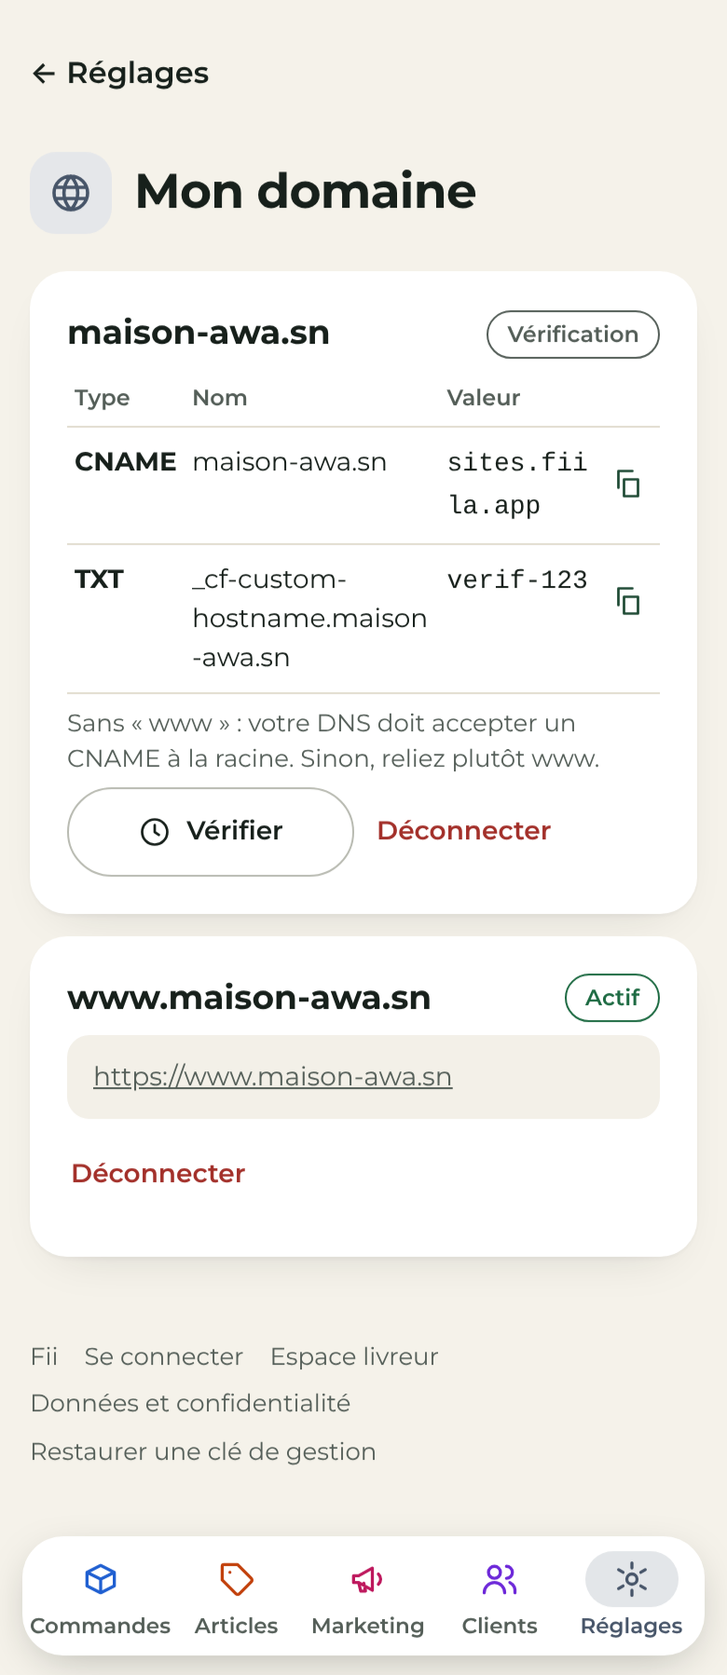
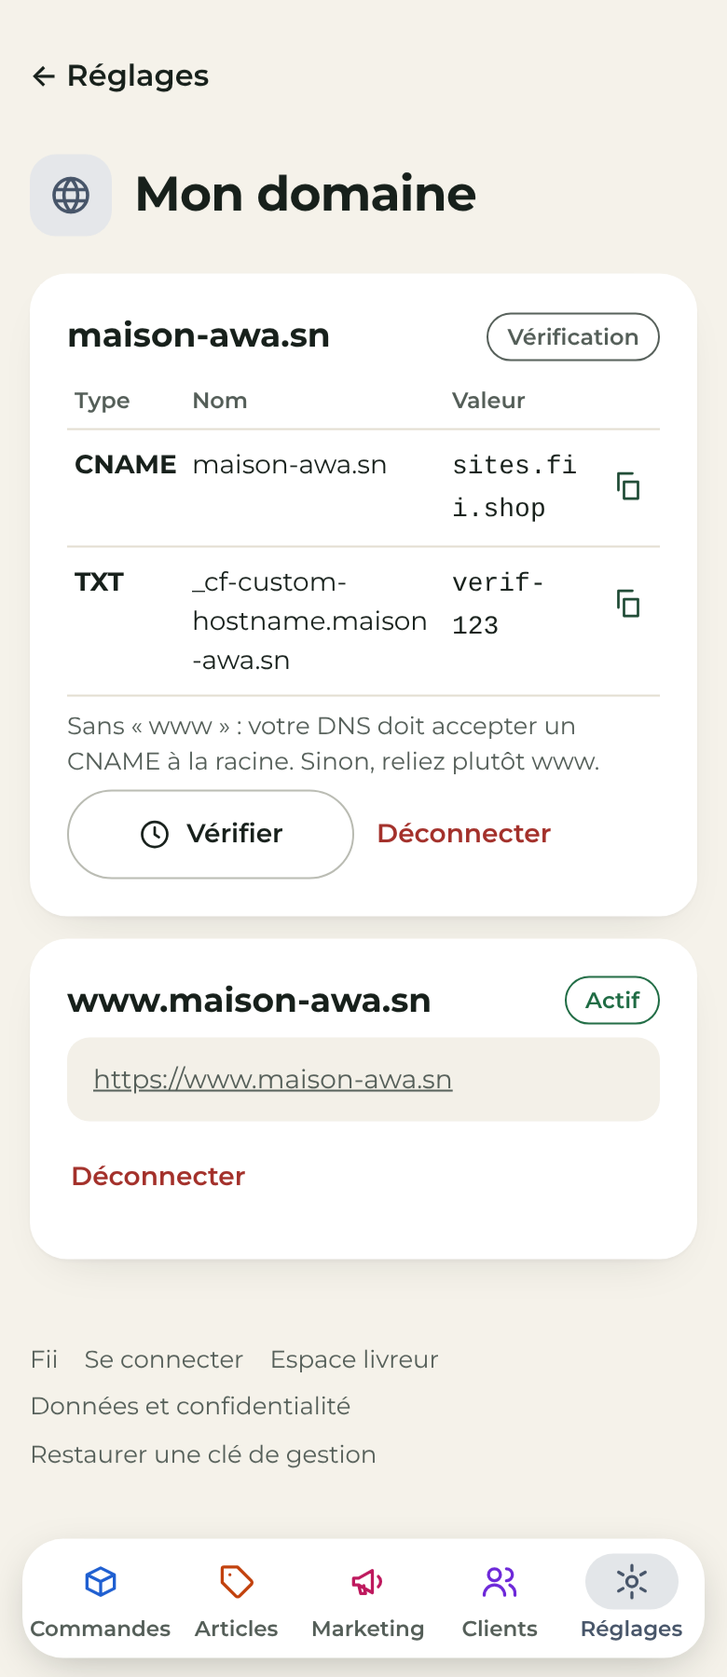
Domaines : fii.app (application) et fii.shop (sites des boutiques)
- Décision du fondateur (24/10 16:51) : remplace fiila.app ; fii.com pris depuis 1998
- <lien>.fii.shop pour chaque boutique en ligne (base + Worker, interrupteur shop_subdomains) ; fii.shop → fii.app
- Cloudflare for SaaS sur la zone fii.shop (cible sites.fii.shop) ; noms fii.* refusés comme domaines propres
- Liens partagés courts dès la variable SHOP_ZONE ; « Mon domaine » caché tant que DOMAINS_LIVE est vide
- Tests : domains.sql 14/14, domainsfn.sql 12/12, domains 8/8 ; plan et guide v2 ; HANDOFF, BACK-OFFICE

Claude-Session: https://claude.ai/code/session_017YReozxuCfYpxhCwcYgwRE

diff --git a/web/app.js b/web/app.js
@@ -1980,6 +1980,8 @@
     bordeaux: ['Bordeaux', '#7A1F3D'], terre: ['Terre', '#8A4B1F'] };
   function vitrineUrl(slug, productId) {
     if (SITE && slug === SITE.slug) return 'https://' + SITE.host + '/#/b/' + slug + (productId ? '?a=' + productId : '');
+    // Adresse courte de la boutique (<lien>.fii.shop) dès que la zone des sites est en ligne (CFG.shopZone).
+    if (CFG.shopZone && /^[a-z0-9]([a-z0-9-]{1,38}[a-z0-9])$/.test(slug)) return 'https://' + slug + '.' + CFG.shopZone + '/#/b/' + slug + (productId ? '?a=' + productId : '');
     return baseUrl() + '#/b/' + slug + (productId ? '?a=' + productId : '');
   }
   function viewVitrine(slug, q) {
@@ -2749,7 +2751,8 @@
           h('span', { class: 'look-ic', 'aria-hidden': 'true' }, icon('edit', 22)),
           h('span', { class: 'look-t' }, h('b', null, 'Personnaliser mon site'), h('small', null, 'Logo, modèle, couleur, couverture, réseaux')),
           h('span', { class: 'chev', 'aria-hidden': 'true' }, icon('chev', 20))),
-        h('a', { class: 'irow', id: 'vitrine-domain', href: '#/boutique/domaine' },
+        // Visible seulement quand les domaines propres sont en service (CFG.domainsLive, posé à la mise en ligne de Cloudflare).
+        !CFG.domainsLive ? null : h('a', { class: 'irow', id: 'vitrine-domain', href: '#/boutique/domaine' },
           h('span', { class: 'irow-ic', 'aria-hidden': 'true' }, icon('globe', 20)),
           h('span', { class: 'irow-t' }, 'Mon domaine', h('small', { class: 'muted' }, state.plan === 'premium' ? 'www.maboutique.com' : 'Premium')),
           h('span', { class: 'chev', 'aria-hidden': 'true' }, icon('chev', 18))),
@@ -9256,7 +9259,8 @@
     discover_after: ['Suggestion discrète après une action (commande, adresse envoyée, course)', '0 = non, 1 = oui'],
     wa_card_media: ['Carte image avec la demande d’adresse sur WhatsApp', '0 = texte seul, 1 = image + texte'],
     media_cdn: ['Photos servies par le stockage (adresse fixe, mise en cache)', '0 = servies par la base, 1 = stockage'],
-    custom_domains: ['Domaines propres des boutiques Premium (Site Pro)', '0 = coupés, 1 = ouverts'] };
+    custom_domains: ['Domaines propres des boutiques Premium (Site Pro)', '0 = coupés, 1 = ouverts'],
+    shop_subdomains: ['Adresses <lien>.fii.shop des boutiques', '0 = coupées, 1 = ouvertes'] };
   // « Prénom · rôle » tel que gardé au journal, avec le rôle en clair.
   function boActor(a) { return String(a || '—').replace(/ · ([a-z_]+)$/, function (m, r) { return ' · ' + (BO_ROLES[r] || r); }); }
   function boActionLabel(a, d) {

diff --git a/docs/PLAN-DOMAINES-FII.md b/docs/PLAN-DOMAINES-FII.md
@@ -1,5 +1,6 @@
 # Plan — Domaine principal de Fii et domaines des boutiques
 
+> v2, 24/10/2026 17:00 — **domaines changés par le fondateur (24/10 16:51) : `fii.app` (ou `fii.com`) pour l'application, `fii.shop` pour les sites des boutiques.** v1 (`fiila.app`) remplacée.
 > v1, 24/10/2026, Builder (Claude Code). Mandat du fondateur du 24/10 (domaine principal + domaine propre d'une boutique).
 > **Rien n'est acheté, aucun DNS n'est modifié, aucun service payant n'est activé sans accord du fondateur.**
 > Chaque fait est marqué : **FAIT** (vérifié, avec source et date), **À CONFIRMER** (non vérifiable d'ici), **HYPOTHÈSE**.
@@ -8,12 +9,22 @@
 
 **Architecture retenue : Cloudflare de bout en bout pour l'adresse (DNS, hébergement, HTTPS, domaines des boutiques), Supabase inchangé, code de l'application inchangé dans sa structure.**
 
-- **Domaine principal : `fiila.app`** chez Cloudflare Registrar, décision du fondateur du 19/10, conservée. Disponibilité **À CONFIRMER** au moment de l'achat.
+- **Domaine principal : `fii.app`** chez Cloudflare Registrar (fondateur, 24/10 16:51 ; remplace `fiila.app`). `fii.com` est pris depuis 1998. **Sites des boutiques : `fii.shop`.** Disponibilité et prix **À CONFIRMER** au moment de l'achat.
 - **Hébergement :** un Worker Cloudflare avec les fichiers de `web/` en ressources statiques. Il remplace GitHub Pages pour le domaine principal. GitHub Pages reste en ligne pendant la migration, puis renvoie vers le nouveau domaine.
-- **Domaines des boutiques :** Cloudflare for SaaS sur la zone `fiila.app`. La boutique ajoute **un enregistrement CNAME** sur `www.saboutique.com` vers `sites.fiila.app`. Cloudflare vérifie la propriété et émet le certificat HTTPS.
+- **Domaines des boutiques :** Cloudflare for SaaS sur la zone `fii.shop`. Chaque boutique en ligne a aussi `<lien>.fii.shop`. La boutique ajoute **un enregistrement CNAME** sur `www.saboutique.com` vers `sites.fii.shop`. Cloudflare vérifie la propriété et émet le certificat HTTPS.
 - **Domaine nu (`saboutique.com` sans `www`) : non pris en charge directement.** L'offre gratuite ne propose pas le « apex proxying ». Exception : un hébergeur DNS qui accepte un CNAME à la racine (« aplatissement »). Sinon, la boutique redirige le domaine nu vers `www` chez son registraire.
 
 ## 2. Domaine principal
+
+**Décision du 24/10 (16:51) :** « maintenant c'est fii.app ou fii.com et fii.shop ». Lecture retenue (réversible) :
+
+| Domaine | Rôle | État |
+|---|---|---|
+| `fii.app` | **Application** (gestion, comptes, back-office) — adresse canonique | Disponibilité et prix **À CONFIRMER** à l'achat. Prix standard `.app` chez Cloudflare : 8,20 USD puis 14,20 USD/an. **HYPOTHÈSE forte :** un nom de 3 lettres est souvent classé « premium » par le registre, à un prix bien supérieur |
+| `fii.com` | Alternative à `fii.app` | **FAIT (19/10, RDAP) : enregistré par un tiers depuis 1998.** Seulement par rachat à son propriétaire (négociation, prix inconnu). Non recommandé maintenant |
+| `fii.shop` | **Sites des boutiques** : `<lien>.fii.shop` pour chaque boutique en ligne, et zone Cloudflare for SaaS des domaines propres (cible `sites.fii.shop`). `fii.shop` et `www.fii.shop` renvoient vers l'application | Disponibilité **À CONFIRMER**. Prix standard `.shop` chez Cloudflare : 30,20 USD/an, renouvellement identique (domainoffer.net, 24/10). Même réserve « premium » |
+
+Séparer l'application (`fii.app`) et les sites (`fii.shop`) isole les deux : aucun site de boutique ne partage l'origine, les cookies ou le stockage de la gestion. Ce choix remplace aussi le « domaine neutre des sites offerts » laissé ouvert le 19/10.
 
 | Point | État |
 |---|---|
@@ -33,8 +44,8 @@
 ## 3. Architecture
 
 ```
-Visiteur ─┬─ fiila.app ───────────────┐
-          ├─ www.saboutique.com ──CNAME──> sites.fiila.app ─┐
+Visiteur ─┬─ fii.app ───────────────┐
+          ├─ www.saboutique.com ──CNAME──> sites.fii.shop ─┐
           │                           │                    │
           └─ aramislab0.github.io/fii-la (ancienne adresse, migration puis renvoi)
                                       ▼                    ▼
@@ -52,13 +63,13 @@ Visiteur ─┬─ fiila.app ───────────────┐
 | Domaine de boutique **vérifié et actif** | **Site seulement** : la vitrine de cette boutique, son panier, l'envoi de commande et sa facture. Titre, icône et aperçu de partage à son nom. Aucune gestion, aucun compte, aucune clé |
 | Hôte inconnu, non vérifié, déconnecté ou en attente | Page « Site introuvable » sobre, sans l'application ni aucune donnée |
 
-**Isolation :** la page HTML d'un domaine de boutique n'est **jamais mise en cache partagé**. Le cache des correspondances hôte → boutique est indexé par nom d'hôte et dure 60 secondes. Une boutique ne peut donc pas servir le contenu d'une autre. Chaque domaine est une origine distincte du navigateur : pas de stockage commun avec `fiila.app`.
+**Isolation :** la page HTML d'un domaine de boutique n'est **jamais mise en cache partagé**. Le cache des correspondances hôte → boutique est indexé par nom d'hôte et dure 60 secondes. Une boutique ne peut donc pas servir le contenu d'une autre. Chaque domaine est une origine distincte du navigateur : pas de stockage commun avec `fii.app`.
 
 **Coûts (FAIT, documentation Cloudflare consultée le 24/10/2026) :**
 
 | Poste | Offre | Coût |
 |---|---|---|
-| Zone DNS `fiila.app` | Free | 0 |
+| Zone DNS `fii.app` | Free | 0 |
 | Worker | Free : 100 000 requêtes par jour ; fichiers statiques gratuits et illimités | 0. Au-delà : Workers Paid, 5 USD par mois minimum |
 | Cloudflare for SaaS | 100 noms d'hôte inclus (Free, Pro, Business), puis **0,10 USD par nom d'hôte et par mois**, 50 000 au plus | 0 jusqu'à 100 domaines de boutique (un domaine avec `www` et domaine nu = 2 noms d'hôte) |
 | Apex proxying (domaine nu natif) | Enterprise uniquement, module payant | **Non retenu** |
@@ -72,28 +83,28 @@ Visiteur ─┬─ fiila.app ───────────────┐
 
 **Parcours (Réglages → Mon site → « Mon domaine ») :**
 1. Taper son domaine. `www.saboutique.com` est recommandé. `saboutique.com` est accepté avec une consigne : le DNS doit accepter un CNAME à la racine, sinon relier `www`.
-2. Fii affiche **seulement les enregistrements réellement demandés** : le CNAME vers `sites.fiila.app`, plus les enregistrements de vérification que Cloudflare renvoie pour ce nom (TXT ou HTTP). Fii n'invente aucune valeur.
+2. Fii affiche **seulement les enregistrements réellement demandés** : le CNAME vers `sites.fii.shop`, plus les enregistrements de vérification que Cloudflare renvoie pour ce nom (TXT ou HTTP). Fii n'invente aucune valeur.
 3. Statut lisible : *En attente du DNS* → *Vérification* (propriété puis certificat) → **Actif** seulement quand les deux sont validés. En cas d'erreur, la raison donnée par Cloudflare, avec « Vérifier » et « Déconnecter ». Deux domaines au plus par boutique.
-4. Une fois actif, le site répond sur `https://www.saboutique.com`. L'adresse Fii de la boutique (`fiila.app/#/b/…`) **continue de marcher**.
+4. Une fois actif, le site répond sur `https://www.saboutique.com`. L'adresse Fii de la boutique (`fii.app/#/b/…`) **continue de marcher**.
 
 **Garde-fous :**
 - un nom d'hôte appartient à **une seule** boutique ; une demande en double est refusée ;
 - une demande non vérifiée **expire après 72 heures** et libère le nom (contre le blocage d'un domaine par quelqu'un qui ne le possède pas) ;
 - les noms de Fii, les adresses IP, les noms sans point et `localhost` sont refusés ;
 - **réattribution** seulement après déconnexion, depuis le back-office, avec motif tracé ;
-- la gestion, les comptes et les fonctions sensibles restent sur `fiila.app`.
+- la gestion, les comptes et les fonctions sensibles restent sur `fii.app`.
 
 **Back-office :** liste des domaines (boutique, statut de vérification et de certificat, dernière erreur, dates). Actions « Revérifier » et « Déconnecter » avec motif, toutes au journal.
 
 ## 5. Changement de domaine principal : ne rien perdre
 
-**Problème :** les clés de gestion des fiches, de la boutique et du livreur sont gardées **dans le navigateur, par origine**. `fiila.app` ne voit pas ce que `aramislab0.github.io` a gardé.
+**Problème :** les clés de gestion des fiches, de la boutique et du livreur sont gardées **dans le navigateur, par origine**. `fii.app` ne voit pas ce que `aramislab0.github.io` a gardé.
 
 **Solution (sans jamais mettre une clé dans une adresse, des journaux ou les mesures) :**
-1. Après la bascule, l'ancienne adresse reçoit `movedTo = https://fiila.app`.
+1. Après la bascule, l'ancienne adresse reçoit `movedTo = https://fii.app`.
 2. S'il n'y a rien de local, l'ancienne adresse renvoie tout de suite vers la nouvelle, **avec le même chemin** : un lien de fiche, de demande, de facture ou de vitrine déjà partagé continue de marcher.
 3. S'il y a des fiches, une boutique ou un compte livreur sur ce téléphone, l'écran affiche « Fii change d'adresse » et un bouton **« Continuer »**.
-   - Le bouton ouvre `fiila.app/#/migrer`. La nouvelle page signale qu'elle est prête à l'ancienne.
+   - Le bouton ouvre `fii.app/#/migrer`. La nouvelle page signale qu'elle est prête à l'ancienne.
    - L'ancienne lui transmet les données locales de Fii par **message direct entre les deux fenêtres**. L'origine est vérifiée des deux côtés.
    - Les sessions de connexion ne sont pas transférées : on se reconnecte.
    - La nouvelle page fusionne sans rien écraser, confirme, et l'ancienne se ferme ou renvoie.
@@ -106,7 +117,7 @@ Visiteur ─┬─ fiila.app ───────────────┐
 
 | Accès | Qui | Pour quoi |
 |---|---|---|
-| Compte Cloudflare (Aramis Lab) | Fondateur | Achat de `fiila.app`, zone DNS, Worker, Cloudflare for SaaS |
+| Compte Cloudflare (Aramis Lab) | Fondateur | Achat de `fii.app`, zone DNS, Worker, Cloudflare for SaaS |
 | Jeton d'API Cloudflare limité à la zone : Workers (édition), DNS (édition), Custom Hostnames et SSL (édition) | Fondateur → secret GitHub `CLOUDFLARE_API_TOKEN` et secret Supabase `CF_API_TOKEN` | Mise en ligne du Worker par la CI ; création et suivi des domaines des boutiques. Jamais dans le dépôt ni la conversation |
 | Identifiants de compte et de zone (non secrets) | Fondateur → variables GitHub `CLOUDFLARE_ACCOUNT_ID`, `CF_ZONE_ID` | Configuration |
 | Supabase Auth (URL du site, adresses de retour) | Fondateur, ou le Builder avec son accord | Connexion sur la nouvelle adresse |
@@ -117,19 +128,19 @@ Visiteur ─┬─ fiila.app ───────────────┐
 ## 7. Étapes
 
 1. **Construire et tester (branche `domaines`, sans effet sur la production). FAIT le 24/10 : voir `docs/GUIDE-DOMAINES.md`.** Worker, mode « site seul », migration des clés, réglage « Mon domaine », back-office, tests SQL et navigateur avec des boutiques et domaines synthétiques.
-2. **Fondateur :** ouvrir le compte Cloudflare, vérifier et acheter `fiila.app`. Je présente avant le paiement le domaine exact, le prix et le renouvellement.
-3. **Préproduction :** mettre le Worker en ligne sur une adresse de test du compte (`*.workers.dev`), sans toucher `fiila.app`. Tests en ligne Chrome et Safari, plus un test sur vrai téléphone par le fondateur.
+2. **Fondateur :** ouvrir le compte Cloudflare, vérifier et acheter `fii.app`. Je présente avant le paiement le domaine exact, le prix et le renouvellement.
+3. **Préproduction :** mettre le Worker en ligne sur une adresse de test du compte (`*.workers.dev`), sans toucher `fii.app`. Tests en ligne Chrome et Safari, plus un test sur vrai téléphone par le fondateur.
 4. **Bascule (accord du fondateur requis) :**
-   - brancher `fiila.app` sur le Worker ;
+   - brancher `fii.app` sur le Worker ;
    - mettre à jour Supabase Auth ;
-   - activer Cloudflare for SaaS (fallback `sites.fiila.app`) ;
+   - activer Cloudflare for SaaS (fallback `sites.fii.shop`) ;
    - publier sur l'ancienne adresse la version qui migre puis renvoie.
 5. **Premier domaine de boutique** (Premium) avec le fondateur, suivi dans le back-office.
 
 ## 8. Retour arrière
 
 - **Avant l'étape 4 :** rien ne change pour les utilisateurs.
-- **Domaine principal :** remettre `movedTo` à vide sur l'ancienne adresse. GitHub Pages sert de nouveau l'application complète, et les données locales restées sur l'ancienne origine sont intactes (la migration copie, elle ne supprime rien). Les données copiées sur `fiila.app` y restent sans effet.
+- **Domaine principal :** remettre `movedTo` à vide sur l'ancienne adresse. GitHub Pages sert de nouveau l'application complète, et les données locales restées sur l'ancienne origine sont intactes (la migration copie, elle ne supprime rien). Les données copiées sur `fii.app` y restent sans effet.
 - **Domaines de boutique :** déconnecter (back-office) ou couper l'interrupteur `custom_domains`. Le site répond « introuvable » sur le domaine propre et reste disponible à son adresse Fii.
 - **Worker :** revenir à la version précédente en un clic dans Cloudflare, ou par `wrangler rollback`.
 
@@ -142,4 +153,5 @@ Visiteur ─┬─ fiila.app ───────────────┐
 - [Workers — tarifs](https://developers.cloudflare.com/workers/platform/pricing/)
 - [Workers — ressources statiques](https://developers.cloudflare.com/workers/static-assets/binding)
 - [Prix .app chez Cloudflare (domainoffer.net)](https://domainoffer.net/tld/app/cloudflare)
+- [Prix .shop chez Cloudflare (domainoffer.net)](https://domainoffer.net/tld/shop/cloudflare)
 - [Prix et démarches .sn (kolonell.com)](https://kolonell.com/fr/blog/nom-de-domaine-sn-prix-demarches-nic-senegal-2026)

diff --git a/docs/HANDOFF.md b/docs/HANDOFF.md
@@ -27,7 +27,7 @@ Fii La permet d'expliquer **une seule fois** comment arriver à une entrée : po
 
 | Domaine | État | Preuve |
 |---|---|---|
-| Domaines (24/10) | **Construit et testé sur la branche `domaines`, pas en production.** Mandat du fondateur (24/10 16:15) : domaine principal + domaine propre des boutiques. Fait : Worker Cloudflare (`worker/`) qui sert l'application sur le domaine principal, le seul site de la boutique sur un domaine vérifié, « Site introuvable » ailleurs ; table `fiila.shop_domains` (Premium, 2 domaines, un nom = une boutique, expiration 72 h, actif = propriété ET certificat) ; fonction `fiila-domains` (Cloudflare for SaaS, inactive sans secrets) ; Réglages → « Mon domaine » ; transfert des fiches et clés de l'ancienne adresse vers la nouvelle par message direct entre fenêtres (jamais dans une adresse) ; back-office « Domaines ». **Manquent : compte Cloudflare, achat du domaine, jetons, URL Supabase Auth (fondateur)** | `docs/PLAN-DOMAINES-FII.md`, `docs/GUIDE-DOMAINES.md` ; migration `20261024100000_fiila_shop_domains.sql` ; tests `domains.sql` 13/13, `domainsfn.sql` 12/12, `domains` 7/7 (Chrome) |
+| Domaines (24/10) | **Fusionné dans `main` (sans effet visible : variables de mise en ligne vides). Domaines : `fii.app` + `fii.shop`.** Mandat du fondateur (24/10 16:15) : domaine principal + domaine propre des boutiques. Fait : Worker Cloudflare (`worker/`) qui sert l'application sur le domaine principal, le seul site de la boutique sur un domaine vérifié, « Site introuvable » ailleurs ; table `fiila.shop_domains` (Premium, 2 domaines, un nom = une boutique, expiration 72 h, actif = propriété ET certificat) ; fonction `fiila-domains` (Cloudflare for SaaS, inactive sans secrets) ; Réglages → « Mon domaine » ; transfert des fiches et clés de l'ancienne adresse vers la nouvelle par message direct entre fenêtres (jamais dans une adresse) ; back-office « Domaines ». **Manquent : compte Cloudflare, achat du domaine, jetons, URL Supabase Auth (fondateur)** | `docs/PLAN-DOMAINES-FII.md`, `docs/GUIDE-DOMAINES.md` ; migration `20261024100000_fiila_shop_domains.sql` ; tests `domains.sql` 13/13, `domainsfn.sql` 12/12, `domains` 7/7 (Chrome) |
 | Signes distinctifs et Publier v3 (23/10) | **En production (run 39926711444, tout vert après relance, Chrome + Safari).** Demande du fondateur (08:36)** : « trop plat, des signes que les gens reconnaissent, pas des textes ; une belle carte par article avec les boutons des réseaux colorés ». Fait : Marketing → « Publier » = cartes d'articles (photo, nom, prix, « 2 vendus ») avec 5 logos dans leurs couleurs (Instagram, Facebook, WhatsApp, TikTok, Snapchat) ; un toucher prépare l'image au bon format (4:5 ou 9:16), copie le texte et ouvre le partage du téléphone ; repli ordinateur : enregistrer / copier / ouvrir le réseau. Même carte sur la fiche article. Une couleur et une icône par espace (Commandes bleu, Articles orange avec étiquette, Marketing rose, Clients violet, Réglages ardoise, Demander bleu-vert, Événement rouge, Livreur ambre, Vide-dressing violet, Agent or) : accueil, barre d'onglets, titres de page. Aller-retour vérifié (flèches et retour du téléphone) | migration `20261023500000_fiila_marketing_nets.sql` ; `pubCard`, `secHead` ; tests `marketing`, `navigation` (aller-retour), `shop`, `media`, `vitrine` |
 | Résultats premium et textes (23/10) | **En production (run 39911537920, tout vert, Chrome + Safari).** Demande du fondateur (06:05)** : chiffres trop simples, coquilles, textes mal alignés, guillemets à la ligne, trop de mentions sous les boutons. Fait : « Résultats » = carte Ventes en grand (tendance + courbe jour par jour, par semaine sur 90 jours) + 3 indicateurs avec tendance + faits en pastilles ; typographie à l'affichage (« mot », « mot : », montants jamais coupés en fin de ligne, sans changer le texte copié) ; titres équilibrés ; facture en lignes lisibles (« 2 × 12 000 FCFA ») ; une seule carte en haut de Ma boutique ; 20 mentions retirées ou raccourcies (publier, réglages du site, logo, Premium, QR, création d'article, adresse, événement…) | migration `20261023400000_fiila_marketing_results.sql` (série jour par jour) ; `web/app.js` (`typo`, `invoiceTable`, `viewShopMarketing`) |
 | Marketing v2 (23/10) | **En production (run 39906184234, tout vert, Chrome + Safari).** Refonte demandée par le fondateur (05:23 : « pour faire mes posts Instagram je ne pouvais pas deviner ; l'écran de choix est illisible »).** Écran : 1) « Publier sur mes réseaux » en tête — on touche la photo d'un article (les plus vendus d'abord) ; 2) « Mon site » : lien + 4 pastilles (WhatsApp, Copier, QR, Voir), plus de grand bouton concurrent ; 3) « Résultats » avec la seule rangée de filtres ; 4) « Mes réseaux » en 4 pastilles. Feuille « Publier » : deux formats en vrai aperçu (Publication 1080×1350, Story ou statut 1080×1920 composée), une seule action, consigne « Dans Instagram, choisissez… » ; texte copié (lien copié pour la Story). L'écran de choix d'Instagram lui-même n'est pas modifiable par Fii | `web/app.js` (`publishSheet`, `productVisual`, `viewShopMarketing`) ; migration `20261023300000_fiila_marketing_publish.sql` ; tests `marketing` (7), `marketing.sql`, `shop`, `media`, `vitrine` ; captures `docs/screenshots/marketing/` |
@@ -82,6 +82,7 @@ Fii La permet d'expliquer **une seule fois** comment arriver à une entrée : po
 
 | Date | Décision | Par |
 |---|---|---|
+| 24/10 | **Domaines : `fii.app` (application ; `fii.com` seulement si racheté) et `fii.shop` (sites des boutiques : `<lien>.fii.shop` + domaines propres). Remplace `fiila.app` (19/10) et tranche le « domaine neutre des sites offerts ». « Go sur tout » : fusion dans `main` sans effet visible tant que les variables de mise en ligne sont vides** | Fondateur (16:51) |
 | 24/10 | Domaines : Cloudflare de bout en bout (Registrar, Worker, Cloudflare for SaaS), Supabase inchangé ; domaine propre réservé au Premium ; `www` recommandé, domaine nu seulement si le DNS accepte un CNAME à la racine ; la gestion reste sur le domaine principal ; ancienne adresse gardée et renvoyée | Fondateur (mandat 24/10), proposé par le Builder |
 | 23/10 | Priorité aux signes distinctifs (couleurs, logos, icônes) plutôt qu'aux explications, sur toute l'application ; Publier = carte article + logos des réseaux | Fondateur (08:36) |
 | 23/10 | Résultats Marketing « premium et intuitifs » ; retirer les textes non utiles, corriger alignements et guillemets coupés | Fondateur (06:05) |
@@ -167,7 +168,7 @@ Fii La permet d'expliquer **une seule fois** comment arriver à une entrée : po
 
 | # | Action | Qui | Bloquant pour |
 |---|---|---|---|
-| 70 | Domaines : 1) **[Fondateur]** ouvrir le compte Cloudflare (Aramis Lab), valider puis acheter le domaine (nom exact, 8,20 USD puis 14,20 USD/an, taxes à confirmer au paiement), créer le jeton limité et le saisir soi-même (GitHub `CLOUDFLARE_API_TOKEN`, Supabase `CF_API_TOKEN`) ; 2) Builder : préproduction sur `*.workers.dev`, tests en ligne ; 3) **[Fondateur]** accord de bascule (résultat des tests, étapes, retour arrière : `docs/GUIDE-DOMAINES.md` §4) ; 4) fusion de la branche `domaines` | Fondateur → Builder | Domaine principal et sites Pro sur domaine propre |
+| 70 | Domaines : 1) **[Fondateur]** ouvrir le compte Cloudflare (Aramis Lab), acheter `fii.app` et `fii.shop` (prix standard 8,20 USD puis 14,20 USD/an, et 30,20 USD/an ; **si Cloudflare affiche un prix « premium », ne pas payer et me l'envoyer**), créer le jeton limité et le saisir soi-même (GitHub `CLOUDFLARE_API_TOKEN`, Supabase `CF_API_TOKEN`) ; 2) Builder : préproduction sur `*.workers.dev`, tests en ligne ; 3) **[Fondateur]** accord de bascule (résultat des tests, étapes, retour arrière : `docs/GUIDE-DOMAINES.md` §4) ; 4) fusion de la branche `domaines` | Fondateur → Builder | Domaine principal et sites Pro sur domaine propre |
 | 67 | Algorithmes lot 1 **construit** (23/10). Reste : recette téléphone par le fondateur (fiche Agent : historique, réintégrer, rétablir ; page « Mon adresse » sans photo → suggestion) ; aucun versement tant que l'agent n'a pas confirmé son numéro par SMS. Motif facultatif à l'annulation d'une commande : validé pour un lot ultérieur (#68) | Fondateur | `docs/PROPOSITION-ALGORITHMES.md` v2.1 |
 | 68 | Motif facultatif à l'annulation d'une commande (rupture, boutique, livraison, cliente, inconnu ; modifiable par la boutique) : préparation d'A4, à construire dans un lot ultérieur, sur demande | Builder (quand le fondateur lance le lot) | `docs/PROPOSITION-ALGORITHMES.md` §3 A4 |
 | 69 | Publication directe Instagram + Page Facebook (sans quitter Fii) : proposition à faire relire par le VP, puis décisions du fondateur (dossier Meta, V1, TikTok). Aucun code avant | Fondateur → VP | `docs/PROPOSITION-PUBLICATION-DIRECTE.md` |
@@ -276,6 +277,7 @@ Les tests créent puis suppriment des données synthétiques. Ne jamais lancer l
 
 | Date (Dakar) | Action | Commit / preuve |
 |---|---|---|
+| 24/10 17:10 | Domaines passés à `fii.app` + `fii.shop` : adresses `<lien>.fii.shop` (base, Worker, interrupteur `shop_subdomains`), liens partagés courts dès `SHOP_ZONE`, « Mon domaine » caché tant que `DOMAINS_LIVE` est vide ; tests 14/14, 12/12, 8/8 ; plan et guide v2 ; fusion dans `main` | voir commit |
 | 24/10 16:40 | Domaines : implémentation, tests (SQL 13/13, fonction + Worker 12/12, navigateur 7/7 Chrome ; toutes les suites SQL et navigateur relancées), guide d'exploitation et instructions DNS ; branche `domaines`, rien en production | branche `domaines` |
 | 23/10 16:10 | Correctif Publier (image seule) **en production**, Chrome + Safari verts après une relance (installation des navigateurs en échec sur GitHub, 3ᵉ fois aujourd'hui : à durcir si cela se répète) | run 39974543604 ; `3893f57` |
 | 23/10 15:20 | Correctif Publier : l'image seule part vers Instagram, Facebook, TikTok, Snapchat (Facebook perdait la photo quand le texte était joint, capture du fondateur) ; le texte reste copié ; WhatsApp garde la légende. Proposition de publication directe (Meta) rédigée pour le VP | `docs/PROPOSITION-PUBLICATION-DIRECTE.md` ; tests `marketing`, `shop` |

diff --git a/docs/GUIDE-DOMAINES.md b/docs/GUIDE-DOMAINES.md
@@ -1,5 +1,6 @@
 # Guide d'exploitation — domaines de Fii
 
+> v2, 24/10/2026 : domaines `fii.app` (application) et `fii.shop` (sites des boutiques), décision du fondateur à 16:51.
 > v1, 24/10/2026, Builder (Claude Code). Complète `docs/PLAN-DOMAINES-FII.md` (le pourquoi) : ici, le comment.
 > **État :** code et tests prêts sur la branche `domaines`. Rien n'est en ligne. Aucun achat, aucun DNS modifié, aucun service payant activé.
 > Les étapes marquées **[Fondateur]** demandent un accès ou un accord qu'il est seul à donner.
@@ -8,14 +9,15 @@
 
 | Pièce | Fichier | Rôle |
 |---|---|---|
-| Worker | `worker/index.mjs`, `worker/wrangler.jsonc` | Sert `web/`. Domaine principal → l'application. Domaine de boutique actif → le site de cette boutique seulement. Tout autre hôte → « Site introuvable » |
+| Worker | `worker/index.mjs`, `worker/wrangler.jsonc` | Sert `web/`. `fii.app` → l'application. `<lien>.fii.shop` ou domaine propre actif → le site de cette boutique seulement. `fii.shop` → `fii.app`. Tout autre hôte → « Site introuvable » |
 | Base | `supabase/migrations/20261024100000_fiila_shop_domains.sql` | Table `fiila.shop_domains`, règles (Premium, 2 domaines, unicité, expiration 72 h), résolution pour le Worker, back-office |
 | Fonction serveur | `supabase/functions/fiila-domains/` | Crée et suit le nom d'hôte chez Cloudflare, écrit le résultat (clé de service). Sans secrets : ne fait rien et le dit |
 | Application | `web/app.js` | Réglages → « Mon domaine » ; mode « site » (vitrine, panier, facture) ; écran de transfert vers la nouvelle adresse |
 | Back-office | `web/app.js` (« Domaines ») | Liste, statut, certificat, erreur ; « Revérifier » ; « Déconnecter » avec motif, au journal |
 | CI | `.github/workflows/pages.yml` | Variables `APP_HOSTS`, `MOVED_TO`, `LEGACY_ORIGINS` (vides aujourd'hui : aucun effet) |
 
-**Interrupteur :** Back-office → Réglages → `custom_domains` (1 ouvert, 0 coupé). Coupé : aucun domaine de boutique ne sert de site, aucune demande nouvelle.
+**Interrupteurs (Back-office → Réglages) :** `custom_domains` (domaines propres) et `shop_subdomains` (adresses `<lien>.fii.shop`), 1 ouvert, 0 coupé.
+**Variables de mise en ligne (GitHub, vides aujourd'hui) :** `SHOP_ZONE=fii.shop` (les liens partagés deviennent `https://<lien>.fii.shop/`) ; `DOMAINS_LIVE=1` (montre « Mon domaine » aux boutiques Premium). Tant qu'elles sont vides, rien ne change pour les utilisateurs.
 
 ## 2. Preuves (tests)
 
@@ -26,7 +28,7 @@
 | `tests/domains.test.mjs` (Chrome ; Safari en CI) | Vrai Worker devant le serveur de test : site d'une boutique, retour à sa vitrine, gestion renvoyée au domaine principal, hôte inconnu, garde de l'application, **transfert entre deux origines** (clé jamais dans une adresse, session non transmise, origine non autorisée ignorée), « Mon domaine », boutique gratuite | 7/7 |
 | `tests/backoffice.test.mjs` | 16 sections, dont « Domaines » | voir CI |
 
-**Non testable d'ici (à faire sur vrai téléphone, après mise en ligne de test) :** iPhone Safari et Android Chrome, sur le domaine de test : ouverture du site d'une boutique, commande, facture ; transfert depuis l'ancienne adresse avec fenêtre bloquée puis autorisée ; ajout à l'écran d'accueil sur `fiila.app`.
+**Non testable d'ici (à faire sur vrai téléphone, après mise en ligne de test) :** iPhone Safari et Android Chrome, sur le domaine de test : ouverture du site d'une boutique, commande, facture ; transfert depuis l'ancienne adresse avec fenêtre bloquée puis autorisée ; ajout à l'écran d'accueil sur `fii.app`.
 
 ## 3. Instructions DNS données aux boutiques
 
@@ -34,7 +36,7 @@ Fii affiche dans « Mon domaine » **les enregistrements renvoyés par Cloudflar
 
 | Cas | Ce que la boutique ajoute chez son hébergeur DNS |
 |---|---|
-| `www.saboutique.com` (recommandé) | `CNAME` · nom `www` · valeur `sites.fiila.app` |
+| `www.saboutique.com` (recommandé) | `CNAME` · nom `www` · valeur `sites.fii.shop` |
 | Vérification de propriété, si Cloudflare la demande | `TXT` · nom et valeur affichés par Fii (copiés de Cloudflare) |
 | Certificat, si Cloudflare demande une validation DNS | `TXT` ou `CNAME` affiché par Fii |
 | `saboutique.com` (sans www) | Seulement si l'hébergeur DNS accepte un CNAME à la racine (« CNAME flattening », « ALIAS »). Sinon : relier `www`, et rediriger `saboutique.com` vers `www` chez le registraire |
@@ -52,9 +54,9 @@ Fii ne donne **jamais** d'adresse IP à recopier. Délai habituel : quelques min
 1. Ouvrir un compte Cloudflare au nom d'Aramis Lab.
 2. Acheter le domaine **après validation** du nom exact, du prix et du renouvellement (voir le message de livraison).
 3. Créer un jeton d'API limité à la zone : Workers Scripts (édition), DNS (édition), SSL and Certificates (édition), Custom Hostnames (édition).
-4. Le saisir soi-même : secret GitHub `CLOUDFLARE_API_TOKEN` ; secret Supabase (Edge Functions) `CF_API_TOKEN`. Variables non secrètes : `CLOUDFLARE_ACCOUNT_ID`, `CF_ZONE_ID`, `CF_SAAS_TARGET=sites.fiila.app`.
+4. Le saisir soi-même : secret GitHub `CLOUDFLARE_API_TOKEN` ; secret Supabase (Edge Functions) `CF_API_TOKEN`. Variables non secrètes : `CLOUDFLARE_ACCOUNT_ID`, `CF_ZONE_ID` (zone `fii.shop`), `CF_SAAS_TARGET=sites.fii.shop`. Le jeton couvre les deux zones (`fii.app`, `fii.shop`).
 
-### 4.2 Préproduction (sans toucher `fiila.app`)
+### 4.2 Préproduction (sans toucher `fii.app`)
 1. Ajouter à la CI une étape `wrangler deploy` après l'écriture de `config.js`, avec `--var SUPABASE_ANON_KEY:<clé publique>` (clé déjà publique dans `config.js`). Adresse : `fii.<compte>.workers.dev`.
 2. Lancer les tests en ligne (`tests/e2e.test.mjs`, Chrome et Safari) sur cette adresse.
 3. Déployer la fonction `fiila-domains` (sans les secrets : elle répond « non configuré »).
@@ -63,15 +65,16 @@ Fii ne donne **jamais** d'adresse IP à recopier. Délai habituel : quelques min
 ### 4.3 Bascule — **accord du fondateur requis**, avec le résultat des tests
 | # | Action | Vérification |
 |---|---|---|
-| 1 | Route `fiila.app/*` et `www.fiila.app/*` vers le Worker ; `PUBLIC_URL=https://fiila.app/`, `APP_HOSTS=fiila.app` | `https://fiila.app` ouvre l'application ; `www` renvoie vers `fiila.app` |
-| 2 | Supabase Auth : URL du site `https://fiila.app`, adresses de retour `https://fiila.app/**` (garder l'ancienne pendant la transition) | Connexion, mot de passe oublié, double authentification du back-office |
-| 3 | Ancienne adresse : `MOVED_TO=https://fiila.app/`, `LEGACY_ORIGINS=https://aramislab0.github.io` | Un lien de fiche partagé avant la bascule s'ouvre sur `fiila.app` au même écran ; un téléphone avec une boutique voit « Fii change d'adresse » |
-| 4 | Cloudflare for SaaS : origine de secours `sites.fiila.app` (AAAA `100::`, proxifié), route Worker `*/*`. **Activation à valider** (moyen de paiement possiblement demandé) | Un domaine de test Premium passe « Actif » ; un hôte inconnu répond « Site introuvable » |
+| 1 | Route `fii.app/*` et `www.fii.app/*` vers le Worker ; `PUBLIC_URL=https://fii.app/`, `APP_HOSTS=fii.app` | `https://fii.app` ouvre l'application ; `www` renvoie vers `fii.app` |
+| 2 | Supabase Auth : URL du site `https://fii.app`, adresses de retour `https://fii.app/**` (garder l'ancienne pendant la transition) | Connexion, mot de passe oublié, double authentification du back-office |
+| 3 | Ancienne adresse : `MOVED_TO=https://fii.app/`, `LEGACY_ORIGINS=https://aramislab0.github.io` | Un lien de fiche partagé avant la bascule s'ouvre sur `fii.app` au même écran ; un téléphone avec une boutique voit « Fii change d'adresse » |
+| 4 | Zone `fii.shop` : enregistrement générique `*.fii.shop` proxifié vers le Worker, routes `fii.shop/*` et `*.fii.shop/*` ; puis `SHOP_ZONE=fii.shop` | `https://<lien>.fii.shop` ouvre la vitrine ; un lien inconnu répond « Site introuvable » ; `fii.shop` renvoie vers `fii.app` |
+| 5 | Cloudflare for SaaS sur `fii.shop` : origine de secours `sites.fii.shop` (AAAA `100::`, proxifié), route Worker `*/*` ; puis `DOMAINS_LIVE=1`. **Activation à valider** (moyen de paiement possiblement demandé) | Un domaine de test Premium passe « Actif » ; un hôte inconnu répond « Site introuvable » |
 
 ### 4.4 Retour arrière
 | Situation | Geste | Effet |
 |---|---|---|
-| Problème sur `fiila.app` | Vider `MOVED_TO` et relancer la CI | GitHub Pages sert de nouveau l'application complète ; les données locales y sont intactes (le transfert copie, il n'efface rien) |
+| Problème sur `fii.app` | Vider `MOVED_TO` et relancer la CI | GitHub Pages sert de nouveau l'application complète ; les données locales y sont intactes (le transfert copie, il n'efface rien) |
 | Mauvaise version du Worker | `wrangler rollback` ou version précédente dans Cloudflare | Immédiat |
 | Domaine de boutique en cause | Back-office → Domaines → Déconnecter (motif) | Le domaine répond « Site introuvable » ; la vitrine reste à son adresse Fii |
 | Tous les domaines de boutique | Back-office → Réglages → `custom_domains` = 0 | Sous 60 secondes (cache du Worker) |

diff --git a/docs/BACK-OFFICE.md b/docs/BACK-OFFICE.md
@@ -25,7 +25,7 @@
 |---|---|
 | Super admin | Tout, dont l'équipe, les réglages et le journal |
 | Opérations | Boutiques (lecture et actions), commandes, comptes, fil, modération, vide-dressing, ambassadeurs, finances |
-| Domaines (24/10) | Domaines propres des boutiques Premium : nom, boutique (gratuite signalée), statut (en attente, vérification, actif, erreur, expiré, déconnecté), certificat, dernière erreur de Cloudflare, date. « Revérifier » (relit Cloudflare) ; « Déconnecter » avec motif obligatoire (droit `shops_write`, journal `domain_disconnect`, nom retiré chez Cloudflare). Interrupteur `custom_domains` dans Réglages. Test : `backoffice` (16 sections), `domains.sql` |
+| Domaines (24/10) | Domaines propres des boutiques Premium : nom, boutique (gratuite signalée), statut (en attente, vérification, actif, erreur, expiré, déconnecté), certificat, dernière erreur de Cloudflare, date. « Revérifier » (relit Cloudflare) ; « Déconnecter » avec motif obligatoire (droit `shops_write`, journal `domain_disconnect`, nom retiré chez Cloudflare). Interrupteurs `custom_domains` et `shop_subdomains` (adresses `<lien>.fii.shop`) dans Réglages. Test : `backoffice` (16 sections), `domains.sql` |
 | Modération | Commentaires, vérification du vide-dressing (sans téléphones), suspension et réactivation des boutiques |
 | Support | Lecture des boutiques, commandes et comptes |
 | Finances | Commandes, finances, versements des ambassadeurs, « livré » et « reversé » du vide-dressing |
